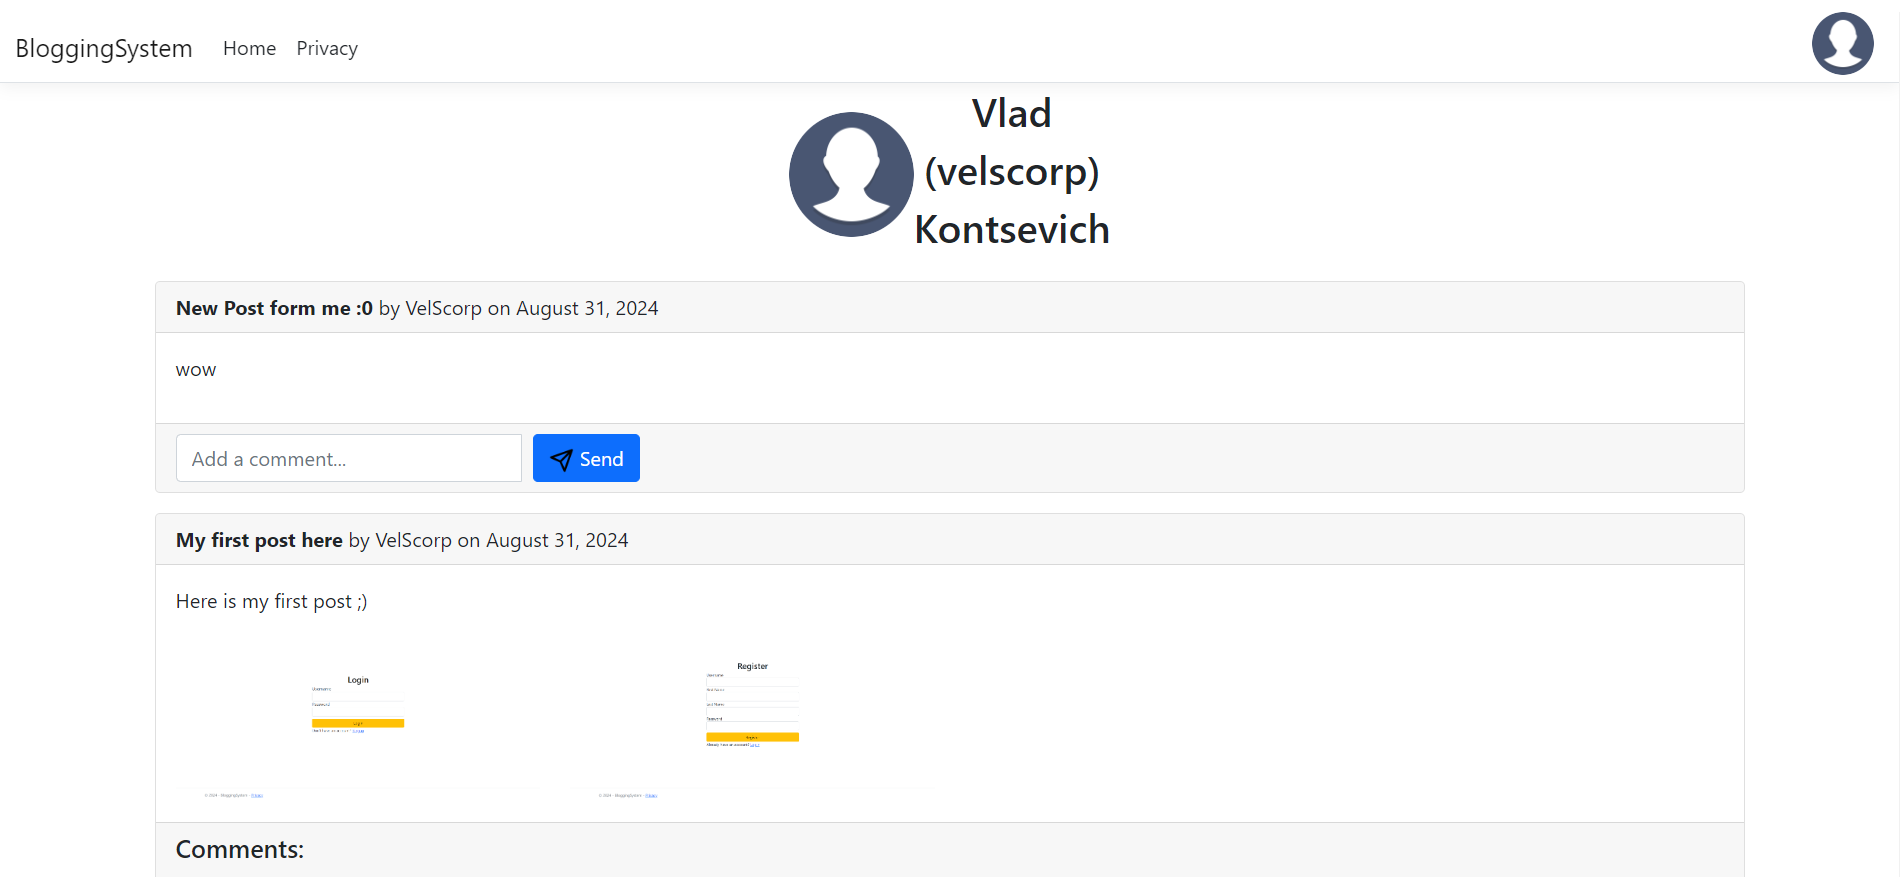
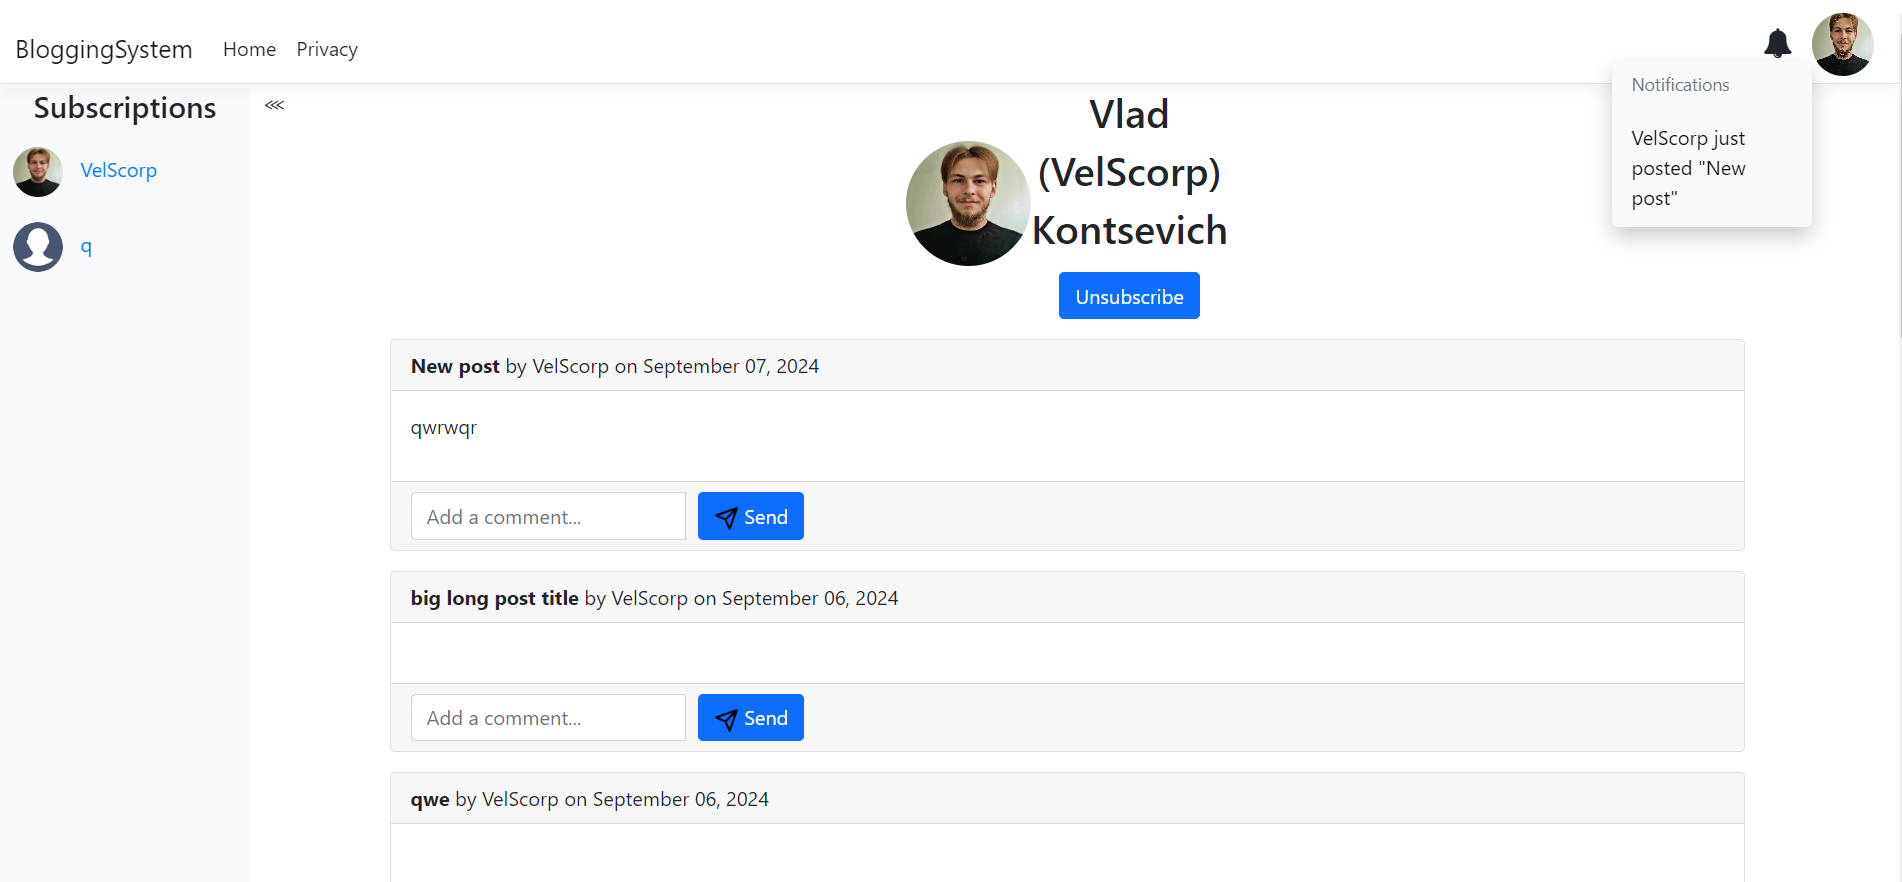
Updated readme file with screenshots; Fixed error handling

diff --git a/BloggingSystem/BloggingSystem/wwwroot/js/site.js b/BloggingSystem/BloggingSystem/wwwroot/js/site.js
@@ -16,6 +16,10 @@
 			contentType: false,
 			processData: false,
 			success: function (response) {
+				if (!response.success) {
+					window.location.href = '/Posts/Error?message=' + response.message;
+					return;
+				}
 				window.location.href = '/';
 			},
 			error: function (error) {
@@ -47,6 +51,10 @@
 			contentType: false,
 			processData: false,
 			success: function (response) {
+				if (!response.success) {
+					window.location.href = '/Posts/Error?message=' + response.message;
+					return;
+				}
 				// Update the displayed fields only if the response fields are not null
 				if (response.photo !== null) {
 					document.querySelector('.profile-photo').src = response.photo;
@@ -81,6 +89,10 @@
 			url: '/Posts/AddComment',
 			data: { postId: postId, commentContent: commentContent },
 			success: function (response) {
+				if (!response.success) {
+					window.location.href = '/Posts/Error?message=' + response.message;
+					return;
+				}
 				$('#commentsContainer-' + postId)
 					.append(`
 						<li>${response.comment.content} (${response.comment.author} on ${new Date(response.comment.createdAt).toLocaleDateString('en-US', { year: 'numeric', month: 'long', day: 'numeric' })})</li>
@@ -103,6 +115,10 @@
 			url: '/Posts/Delete',
 			data: { postId: postId },
 			success: function (response) {
+				if (!response.success) {
+					window.location.href = '/Posts/Error?message=' + response.message;
+					return;
+				}
 				$('#post-' + postId).remove();
 			},
 			error: function () {
@@ -122,6 +138,10 @@
 			url: '/Users/ToggleSubscription',
 			data: { isSubscribed: isSubscribed, author: author },
 			success: function (response) {
+				if (!response.success) {
+					window.location.href = '/Posts/Error?message=' + response.message;
+					return;
+				}
 				button.innerText = isSubscribed ? 'Subscribe' : 'Unsubscribe';
 				if (!isSubscribed) {
 					$('#subscriptionContainer')
@@ -159,11 +179,11 @@
 				notification: notification
 			},
 			success: function (response) {
-				if (response.success) {
-					$notificationItem.remove();
-				} else {
-					alert('Failed to remove notification.');
+				if (!response.success) {
+					window.location.href = '/Posts/Error?message=' + response.message;
+					return;
 				}
+				$notificationItem.remove();
 			},
 			error: function () {
 				alert('An error occurred while trying to remove the notification.');

diff --git a/BloggingSystem/BloggingSystem/Controllers/UsersController.cs b/BloggingSystem/BloggingSystem/Controllers/UsersController.cs
@@ -29,6 +29,7 @@ namespace BloggingSystem
 
 			ViewBag.Subscriptions = subscriptions;
 			ViewBag.IsSubscribed = subscriptions.FirstOrDefault(sub => sub.Username.Equals(author)) is not null;
+			await FillNotificationsAsync();
 
 			return View("AuthorDetails", await _userManager.GetUserDetailsAsync(author));
 		}
@@ -64,42 +65,73 @@ namespace BloggingSystem
 			}
 			catch (Exception ex)
 			{
-				_logger.LogError(ex, "Failed to delete the post");
-				return RedirectToAction("Error", "Posts");
+				var message = "Failed to delete the post";
+				_logger.LogError(ex, message);
+				return Json(new
+				{
+					success = false,
+					message
+				});
 			}
 		}
 
 		[HttpPost]
 		public async Task<IActionResult> ToggleSubscriptionAsync(bool isSubscribed, string author)
 		{
-			var subscriber = User.FindFirst(ClaimTypes.Name)?.Value;
-
-			if (isSubscribed)
+			try
 			{
-				await _subscribeManager.UnsubscribeAsync(author, subscriber);
+				var subscriber = User.FindFirst(ClaimTypes.Name)?.Value;
+
+				if (isSubscribed)
+				{
+					await _subscribeManager.UnsubscribeAsync(author, subscriber);
+
+					return Json(new
+					{
+						success = true
+					});
+				}
+
+				return Json(new
+				{
+					success = true,
+					subscription = await _subscribeManager.SubscribeAsync(author, subscriber)
+				});
+			}
+			catch (Exception ex)
+			{
+				var message = $"Failed to {(isSubscribed ? "unsubscribe from" : "subscribe to")} {author}";
+				_logger.LogError(ex, message);
+				return Json(new
+				{
+					success = false,
+					message
+				});
+			}
+		}
+
+		[HttpPost]
+		public async Task<IActionResult> RemoveNotificationAsync(string subscriber, string notification)
+		{
+			try
+			{
+				await _subscribeManager.RemoveNotificationAsync(subscriber, notification);
 
 				return Json(new
 				{
 					success = true
 				});
 			}
-
-			return Json(new
+			catch (Exception ex)
 			{
-				success = true,
-				subscription = await _subscribeManager.SubscribeAsync(author, subscriber)
-			});
-		}
-
-		[HttpPost]
-		public async Task<IActionResult> RemoveNotificationAsync(string subscriber, string notification)
-		{
-			await _subscribeManager.RemoveNotificationAsync(subscriber, notification);
-
-			return Json(new
-			{
-				success = true
-			});
+				var message = $"Failed to delete {notification} for {subscriber}";
+				_logger.LogError(ex, message);
+				return Json(new
+				{
+					success = false,
+					message
+				});
+			}
 		}
 	}
 }

diff --git a/BloggingSystem/BloggingSystem/Controllers/PostsController.cs b/BloggingSystem/BloggingSystem/Controllers/PostsController.cs
@@ -41,9 +41,13 @@ namespace BloggingSystem
 		}
 
 		[ResponseCache(Duration = 0, Location = ResponseCacheLocation.None, NoStore = true)]
-		public IActionResult Error()
+		public IActionResult Error(string message)
 		{
-			return View(new ErrorViewModel { RequestId = Activity.Current?.Id ?? HttpContext.TraceIdentifier });
+			return View(new ErrorViewModel 
+			{ 
+				RequestId = Activity.Current?.Id ?? HttpContext.TraceIdentifier,
+				Message = message
+			});
 		}
 
 		[HttpPost]
@@ -54,12 +58,21 @@ namespace BloggingSystem
 				var author = User.FindFirst(ClaimTypes.Name)?.Value;
 				await _postManager.CreateAsync(author, post, images);
 				_subscribeManager.Notify(author, $"{author} just posted \"{post.Title}\"");
-				return RedirectToAction("Index");
+
+				return Json(new
+				{
+					success = true
+				});
 			}
 			catch (Exception ex)
 			{
-				_logger.LogError(ex, "Failed to create the post");
-				return RedirectToAction("Error", "Posts");
+				var message = "Failed to create the post";
+				_logger.LogError(ex, message);
+				return Json(new
+				{
+					success = false,
+					message
+				});
 			}
 		}
 
@@ -77,8 +90,13 @@ namespace BloggingSystem
 			}
 			catch (Exception ex)
 			{
-				_logger.LogError(ex, "Failed to delete the post");
-				return RedirectToAction("Error", "Posts");
+				var message = "Failed to delete the post";
+				_logger.LogError(ex, message);
+				return Json(new
+				{
+					success = false,
+					message
+				});
 			}
 		}
 
@@ -110,8 +128,13 @@ namespace BloggingSystem
 			}
 			catch (Exception ex)
 			{
-				_logger.LogError(ex, "Failed to add comment");
-				return RedirectToAction("Error", "Posts");
+				var message = "Failed to add comment";
+				_logger.LogError(ex, message);
+				return Json(new
+				{
+					success = false,
+					message
+				});
 			}
 		}
 	}

diff --git a/BloggingSystem/BloggingSystem/ViewModels/ErrorViewModel.cs b/BloggingSystem/BloggingSystem/ViewModels/ErrorViewModel.cs
@@ -3,7 +3,7 @@ namespace BloggingSystem
 	public class ErrorViewModel
 	{
 		public string? RequestId { get; set; }
-
+		public string Message { get; set; }
 		public bool ShowRequestId => !string.IsNullOrEmpty(RequestId);
 	}
 }

diff --git a/README.md b/README.md
@@ -4,16 +4,18 @@ The Blogging System is a modern web application for managing blog posts, built u
 
 ## Features
 
-- User Authentication & Authorization: Secure login and registration for users.
-- Create/Delete Blog Posts: Full CRUD (Create, Read, Update, Delete) functionality for blog posts.
-- View Blog Posts: Display all blog posts, with options to search by author.
-- View Author profile: Display all blog posts, with author info.
-- View User profile: Display all blog posts, with user info and CRUD operations on posts.
-- Commenting System: Users can leave comments on blog posts.
-- Search Functionality: Fast and efficient search capabilities for blog posts using Elasticsearch.
-- Analytics & Monitoring: Real-time monitoring and visualization of application data with Kibana.
-- Caching: Improved performance through Redis caching.
-- Media Storage: Scalable object storage for media files using Ceph S3.
+- **User Authentication**: Secure login and registration.
+- **CRUD for Blog Posts**: Create, update, delete, and view blog posts effortlessly.
+- **View Blog Posts**: Display all published blog posts in a clean and organized format, allowing users to browse through the articles effortlessly. A search option makes it easy to find content by author.
+- **View Author Profile**: Showcase all posts written by a specific author. The profile includes a list of the author's published content and their details.
+-  **User Profile Management**: Users can view and edit their own profiles, and manage their blog posts directly from their dashboard.
+- **Commenting System**: Engage with content through an integrated commenting system. Users can leave comments on individual blog posts to encourage discussions.
+- **Search by Author**: Powered by Elasticsearch, this functionality allows fast, efficient searches of blog posts based on the author. Users can find relevant content quickly and easily.
+- **Real-time Analytics**: Visualize and monitor data with Kibana.
+- **Caching with Redis**: Boost performance by using Redis to cache frequently accessed data. This significantly improves load times and scalability for high-traffic scenarios.
+- **Media Storage**: Upload images and files with scalable Ceph S3 storage.
+- **Subscription System**: Users can subscribe to their favorite authors to receive updates whenever new posts are published, ensuring they never miss out on content.
+- **Notification System**: A built-in notification system sends alerts to users for important updates like new blog posts, comments on their articles, or replies to their comments.
 
 ## Screenshots
 
